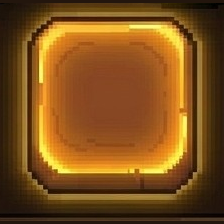
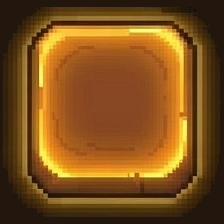
hud: game renders under rail A, measured page window, plank-free plates
Three maintainer-marked bugs on the frame-v2 HUD:

- plate bottoms carried junk rows: the sheet's clean band actually ends
  at row 223 (224 is blank, the wooden plank starts at 225) — the
  previous cut at 232 kept eight plank rows that the soft key passed.
  All three plates re-cut from rows 14-223, vertically centred on the
  224x224 canvas, with largest-connected-component cleanup (drops the
  near-black remnant specks living in the band's top rows too).

- the game viewport stopped at rail A's ragged top edge, leaving dead
  background above the rail. The game/HUD split (--hud-h-inv, hud top)
  now sits INSIDE the rail's full-width-opaque band (measured rows
  665-693 -> split at 676), so the world renders under the rail and the
  frame art overlays it. Chat keeps anchoring above the VISIBLE rail
  top via the new FrameLayout.railTop (--hud-h) so it can't slide
  under the rail.

- inventory spacing was uneven: the page window was eyeballed
  (80..692 x 912..1298) and left big dead margins against the frame.
  Measured the true inner window off frame.png's alpha (48..720 x
  874..1306) and made the page content box match it on all four sides
  (new --ml-page-padbot; the +14 padtop fudge is gone), so the
  space-evenly grids get outer margins equal to their item gaps.

Claude-Session: https://claude.ai/code/session_015Y8E7LRJ6HmiKpAviogoQt

diff --git a/games2/client/src/frame2.ts b/games2/client/src/frame2.ts
@@ -61,12 +61,24 @@ const WIN_CUT = 384; // window bands: cut through transparency
 const VCUT1 = 326; // single-row extrusion (rune-free on both rails)
 const VCUT2 = { y: 1035, s0: 992, p: 86 }; // winding-bark unit
 
-// ---- interior windows (asset coords; eyeballed off the concept, the
-// maintainer reviews screenshots and we adjust) ----
-const INNER_X0 = 80, INNER_X1 = 692;
-const GAME_SPLIT_Y = 648;                 // rail A's visual top edge
+// ---- interior windows (asset coords, MEASURED off frame.png's alpha) ----
+const INNER_X0 = 80, INNER_X1 = 692;      // tab-row span (eyeballed, approved)
+const RAIL_TOP_Y = 648;                   // rail A's visual top edge (ragged)
+const RAIL_SOLID_Y = 676;                 // inside rail A's full-width-opaque
+                                          // band (rows 665-693) — the REAL
+                                          // game/HUD split: the game canvas
+                                          // renders down to here so the rail
+                                          // art overlaps the world (maintainer:
+                                          // "the in-game viewport should render
+                                          // all the way down"), while chat still
+                                          // anchors above RAIL_TOP_Y
 const TAB_WIN = { y0: 714, y1: 844 };     // between rail A and rail B
-const PAGE_WIN = { y0: 912, y1: 1298 };   // below rail B, above bottom rail
+// page window = where the stone is actually exposed: rail B's art ends at
+// row 869 (center span), the bottom rail's ragged art starts at 1310, and
+// the vertical rails' inner edges sit at x 42/725 (median) — the old
+// eyeballed 80..692 / 912..1298 left big dead margins the maintainer marked
+// ("the spacing should look even")
+const PAGE_WIN = { x0: 48, x1: 720, y0: 874, y1: 1306 };
 const PAGE_TUCK_Y = 848;                  // rail B's top edge — the stone
                                           // backdrop starts HERE, under the
                                           // opaque rail art, so no dark gap
@@ -76,8 +88,11 @@ const PAGE_TUCK_Y = 848;                  // rail B's top edge — the stone
 export interface FrameLayout {
   /** css px per asset px */
   scale: number;
-  /** css-px y of the game/HUD boundary (top edge of rail A) */
+  /** css-px y of the game/HUD boundary — INSIDE rail A's opaque band, so the
+   * game canvas runs under the rail's ragged top and the frame overlays it */
   gameHeight: number;
+  /** css-px y of rail A's visual (ragged) top edge — chat anchors above this */
+  railTop: number;
   /** css-px y where the stone page backdrop must start (under rail B) */
   pageTuckTop: number;
   tabRect: { left: number; top: number; width: number; height: number };
@@ -197,7 +212,8 @@ function compose() {
   const insW = w0 - AW;
   const layout: FrameLayout = {
     scale: s,
-    gameHeight: (GAME_SPLIT_Y + g1) * s,
+    gameHeight: (RAIL_SOLID_Y + g1) * s,
+    railTop: (RAIL_TOP_Y + g1) * s,
     pageTuckTop: (PAGE_TUCK_Y + g1) * s,
     tabRect: {
       left: INNER_X0 * s,
@@ -206,9 +222,9 @@ function compose() {
       height: (TAB_WIN.y1 - TAB_WIN.y0) * s,
     },
     pageRect: {
-      left: INNER_X0 * s,
+      left: PAGE_WIN.x0 * s,
       top: (PAGE_WIN.y0 + g1) * s,
-      width: (INNER_X1 + insW - INNER_X0) * s,
+      width: (PAGE_WIN.x1 + insW - PAGE_WIN.x0) * s,
       height: (PAGE_WIN.y1 - PAGE_WIN.y0 + g2) * s,
     },
   };

diff --git a/games2/client/src/hud.ts b/games2/client/src/hud.ts
@@ -73,8 +73,11 @@ function applyFrameLayout() {
   const l = lastLayout;
   if (!l) return;
   const root = document.documentElement;
+  // the game canvas runs to gameHeight (inside rail A's opaque band, so the
+  // frame art overlays the world), but chat keeps anchoring above the rail's
+  // VISIBLE top edge — anchored to gameHeight it would slide under the rail
   root.style.setProperty("--hud-h-inv", `${Math.round(l.gameHeight)}px`);
-  root.style.setProperty("--hud-h", `${Math.round(window.innerHeight - l.gameHeight)}px`);
+  root.style.setProperty("--hud-h", `${Math.round(window.innerHeight - l.railTop)}px`);
   const hud = document.querySelector<HTMLElement>(".ml-hud");
   if (!hud) return;
   hud.style.top = `${Math.round(l.gameHeight)}px`;
@@ -108,9 +111,14 @@ function applyFrameLayout() {
     pg.style.right = "auto";
     pg.style.bottom = "auto";
   }
+  // content box == the frame's true inner window on ALL FOUR sides — the
+  // grids distribute space-evenly inside it, so the margin against the frame
+  // equals the gap between items (maintainer: "the spacing should look even")
   document.documentElement.style.setProperty("--ml-page-pad", `${Math.round(l.pageRect.left)}px`);
   document.documentElement.style.setProperty(
-    "--ml-page-padtop", `${Math.round(l.pageRect.top - l.pageTuckTop + 14)}px`);
+    "--ml-page-padtop", `${Math.round(l.pageRect.top - l.pageTuckTop)}px`);
+  document.documentElement.style.setProperty(
+    "--ml-page-padbot", `${Math.round(window.innerHeight - (l.pageRect.top + l.pageRect.height))}px`);
 }
 
 export class HudBar {
@@ -266,7 +274,7 @@ function injectStyles() {
   .ml-pages{position:absolute;overflow:hidden;image-rendering:pixelated}
   .ml-page{display:none;height:100%;overflow:auto;flex-direction:column;align-items:center;
     justify-content:center;gap:14px;text-align:center;box-sizing:border-box;
-    padding:var(--ml-page-padtop,14px) var(--ml-page-pad,44px) 14px;
+    padding:var(--ml-page-padtop,14px) var(--ml-page-pad,44px) var(--ml-page-padbot,14px);
     background-image:url(/ui2/stone.png);background-size:100% auto;
     background-repeat:repeat-y;background-attachment:local;image-rendering:pixelated}
   .ml-page.show{display:flex}

diff --git a/games2/CLAUDE.md b/games2/CLAUDE.md
@@ -447,9 +447,18 @@ see `loop/LOOP.md`. (The first-generation `games/`+`characters/`+`maps/`+
   to the single row). Scale s = min(W/768, H/1376) CSS-scales the canvas
   (pixelated); the axis with head-room gets the insert, so the frame
   never distorts. `mountPageFrame()` (hud.ts) mounts it and glues the
-  layout: the onLayout callback sets `--hud-h`/`--hud-h-inv` (game split,
-  chat anchors) and positions `.ml-tabrow`/`.ml-pages` into the frame's
-  two lower windows by inline style. The pages carry the maintainer's
+  layout: the onLayout callback sets `--hud-h-inv` = gameHeight (INSIDE
+  rail A's full-width-opaque band, rows 665-693 — the game canvas renders
+  under the rail's ragged top so the frame art overlays the world;
+  maintainer marked the old hard stop) and `--hud-h` from railTop (the
+  VISIBLE rail top, 648 — chat anchors above it, not under the rail), and
+  positions `.ml-tabrow`/`.ml-pages` into the frame's two lower windows by
+  inline style. The page content box (--ml-page-pad/-padtop/-padbot) is
+  the frame's MEASURED inner window (x 48..720, y 874..1306 — rail-B art
+  ends 869, bottom-rail ragged art starts 1310, side rails' inner edges
+  median 42/725), so grids with space-evenly get outer margins equal to
+  their item gaps ("the spacing should look even" — the old eyeballed
+  window left big dead margins). The pages carry the maintainer's
   cobblestone backdrop (`/ui2/stone.png`) FULL-BLEED — "from the very
   left to the very right" (maintainer): .ml-pages spans 100vw under the
   rails, content insets via --ml-page-pad, and the image sits on each